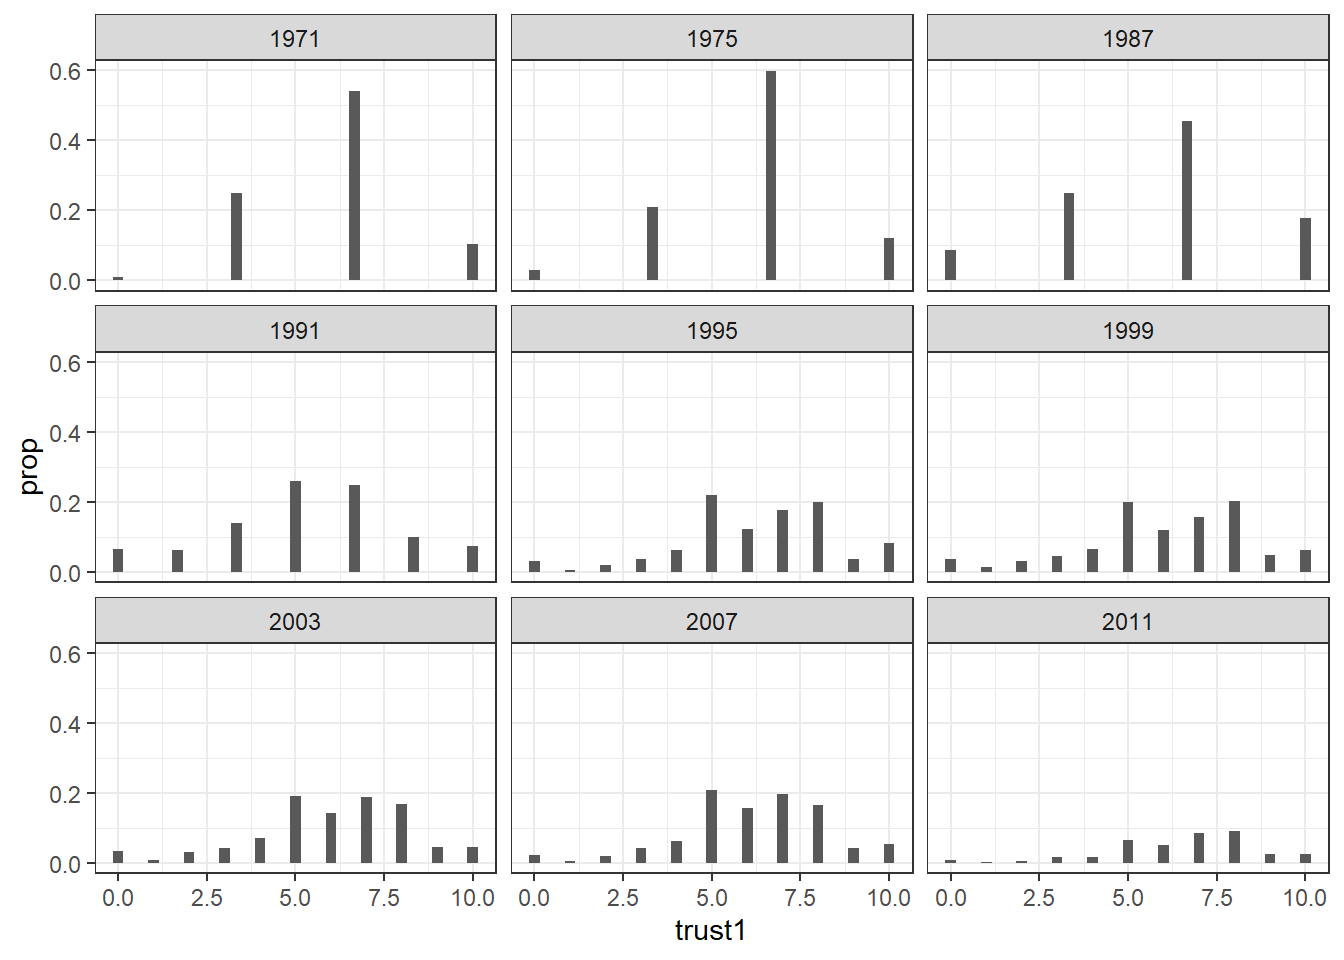
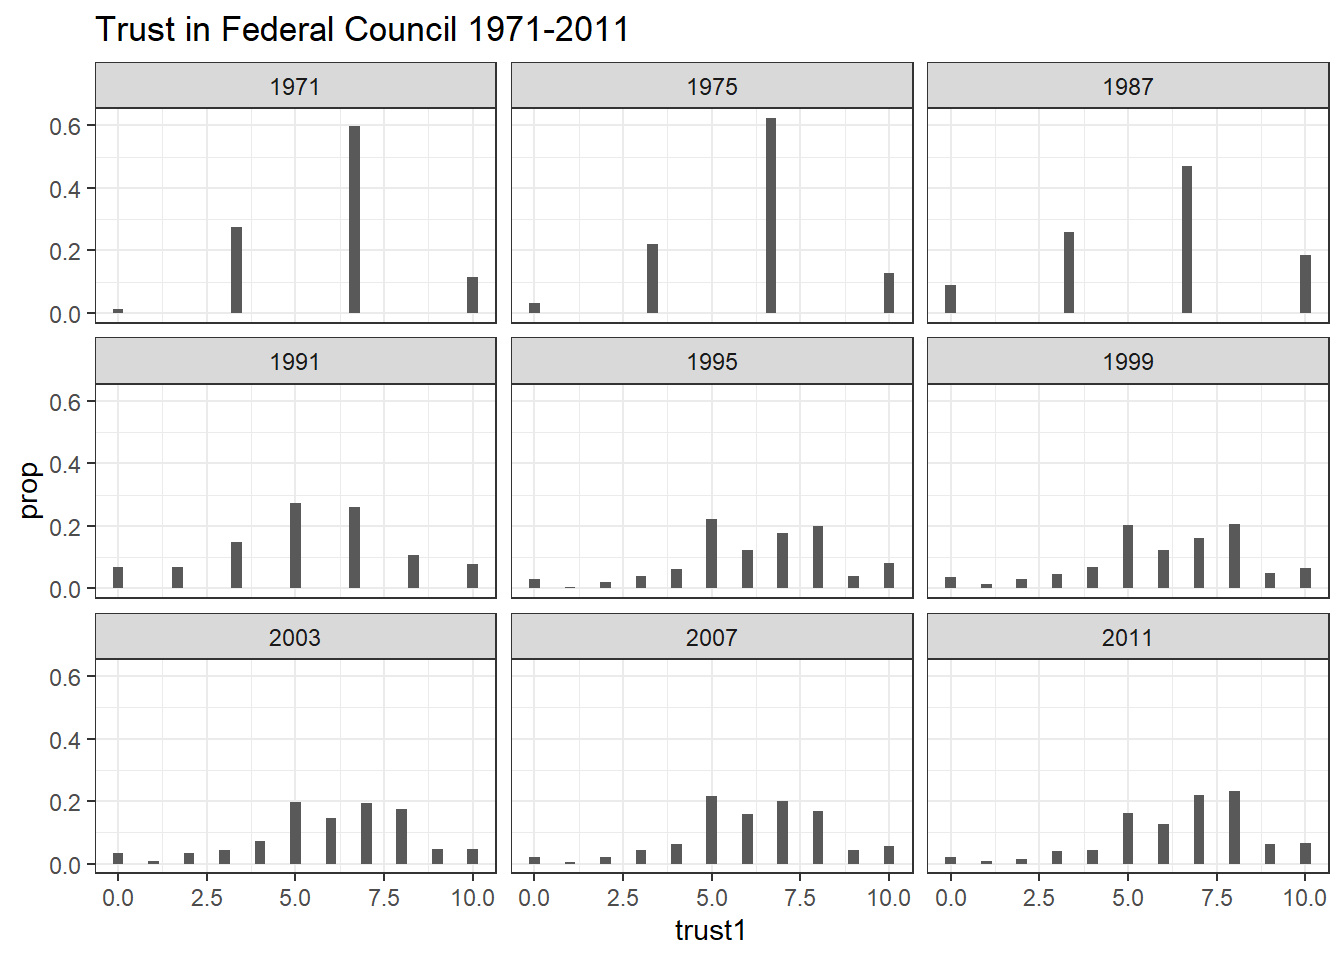
...

diff --git a/docs/posts/trust institution switzerland/trust institution switzerland.html b/docs/posts/trust institution switzerland/trust institution switzerland.html
@@ -216,7 +216,7 @@ div.csl-indent {
 
 
 
-<p>Switzerland is often considered as a successful and well-performing economy. The country typically ranks among the first in a wide variety of living standard measures such as the human development index, GDP per capita and so on. As a result, the analysis trust in institutions in Switzerland is rather poorly studied, because it is expected that the good performances of the country implies political stability and that trust in institutions can be taken as granted. If one tries therefore to assess the evolution of trust in institutions, one thus expects to find a great stability. Nonetheless, one period in recent Swiss history represents an exception: the crisis of the 1990s. This period was marked by recession and was accompanied by a decline in swiss people’s trust in institutions <span class="citation" data-cites="brunner_crise_1997">(<a href="#ref-brunner_crise_1997" role="doc-biblioref">Brunner and Sgier 1997</a>)</span>. For my research, I am interested in social conflict, political cleavages and institutional change. The Neorealism approach developped by Amable and Palombarini <span class="citation" data-cites="amable2005 amable_neorealist_2008">(<a href="#ref-amable2005" role="doc-biblioref">2005</a>; <a href="#ref-amable_neorealist_2008" role="doc-biblioref">2008</a>)</span>, which is dedicated to the analysis of those topics, offers insightful concepts and methods that I will mobilize here in assessing the evolution of Switzerland’s trust in its institutions in the last decades. Until now, Neorealism has been first and foremost mobilized by its founders to analyse France and Italy <span class="citation" data-cites="amable_bloc_2014 amable_illusion_2018">(<a href="#ref-amable_bloc_2014" role="doc-biblioref">Bruno Amable and Palombarini 2014</a>, <a href="#ref-amable_illusion_2018" role="doc-biblioref">2018</a>)</span>. In their work, they typically start with the fact that Italy and France went under periods of deep political crises. Leaving their conceptual definitions of crisis (which are however really interesting) aside and focusing only on how they identify it empirically, they typically expose data on trust in politicians, institutions, government and in political turnover. However, it is rather straightforward to anyone interested in politics and modern history that Italy and France underwent political crises, and data on these facts only serve to describe a well-known fact. The situation is totally different for Switzerland, which is why it is interesting to study this country in a neorealist approach.</p>
+<p>Switzerland is often considered as a successful and well-performing economy. The country typically ranks among the first in a wide variety of living standard measures such as the human development index, GDP per capita and so on. As a result, the trust in institutions in Switzerland is rather poorly studied, because it is expected that the good performances of the country implies political stability and that trust in institutions can be taken as granted. If one tries therefore to assess the evolution of trust in institutions, one thus expects to find a great stability. Nonetheless, one period in recent Swiss history represents an exception: the crisis of the 1990s. This period was marked by recession and was accompanied by a decline in swiss people’s trust in institutions <span class="citation" data-cites="brunner_crise_1997">(<a href="#ref-brunner_crise_1997" role="doc-biblioref">Brunner and Sgier 1997</a>)</span>. For my research, I am interested in social conflict, political cleavages and institutional change. The Neorealism approach developped by Amable and Palombarini <span class="citation" data-cites="amable2005 amable_neorealist_2008">(<a href="#ref-amable2005" role="doc-biblioref">2005</a>; <a href="#ref-amable_neorealist_2008" role="doc-biblioref">2008</a>)</span>, which is dedicated to the analysis of those topics, offers insightful concepts and methods that I will mobilize here in assessing the evolution of Switzerland’s trust in its institutions in the last decades. Until now, Neorealism has been first and foremost mobilized by its founders to analyse France and Italy <span class="citation" data-cites="amable_bloc_2014 amable_illusion_2018">(<a href="#ref-amable_bloc_2014" role="doc-biblioref">Bruno Amable and Palombarini 2014</a>, <a href="#ref-amable_illusion_2018" role="doc-biblioref">2018</a>)</span>. In their work, they typically start with the fact that Italy and France went under periods of deep political crises. Leaving their conceptual definitions of crisis (which are however really interesting) aside and focusing only on how they identify it empirically, they typically expose data on trust in politicians, institutions, government and in political turnover. However, it is rather straightforward to anyone interested in politics and modern history that Italy and France underwent political crises, and data on these facts only serve to describe a well-known fact. The situation is totally different for Switzerland, which is why it is interesting to study this country in a neorealist approach.</p>
 <p>This post will hence be an attempt to periodize, analyse and assess the evolution of trust in institutions in Switzerland. The goal here is, by using post-electoral survey, to identify the trends in trust in institutions and assess whether Switzerland can be characterized as a politically stable country, as opposed to France and Italy.</p>
 <p>To do so, I will analyse post-electoral survey data. The Swiss Election Studies (SELECTS) offers a cumulative dataset which is of particular interest.</p>
 <div class="cell">
@@ -277,18 +277,32 @@ div.csl-indent {
 <div class="sourceCode cell-code" id="cb1"><pre class="sourceCode r code-with-copy"><code class="sourceCode r"><span id="cb1-1"><a href="#cb1-1" aria-hidden="true" tabindex="-1"></a>ses <span class="sc">%&gt;%</span> </span>
 <span id="cb1-2"><a href="#cb1-2" aria-hidden="true" tabindex="-1"></a>  <span class="fu">group_by</span>(year) <span class="sc">%&gt;%</span> </span>
 <span id="cb1-3"><a href="#cb1-3" aria-hidden="true" tabindex="-1"></a>  <span class="fu">count</span>(trust1) <span class="sc">%&gt;%</span> </span>
-<span id="cb1-4"><a href="#cb1-4" aria-hidden="true" tabindex="-1"></a>  <span class="fu">mutate</span>(<span class="at">prop =</span> n<span class="sc">/</span><span class="fu">sum</span>(n)) <span class="sc">%&gt;%</span> </span>
-<span id="cb1-5"><a href="#cb1-5" aria-hidden="true" tabindex="-1"></a>  <span class="fu">ungroup</span>() <span class="sc">%&gt;%</span> </span>
-<span id="cb1-6"><a href="#cb1-6" aria-hidden="true" tabindex="-1"></a>  <span class="fu">filter</span>(<span class="sc">!</span>year <span class="sc">%in%</span> <span class="fu">c</span>(<span class="dv">1979</span>, <span class="dv">2015</span>, <span class="dv">2019</span>)) <span class="sc">%&gt;%</span> </span>
-<span id="cb1-7"><a href="#cb1-7" aria-hidden="true" tabindex="-1"></a>  <span class="fu">ggplot</span>()<span class="sc">+</span></span>
-<span id="cb1-8"><a href="#cb1-8" aria-hidden="true" tabindex="-1"></a>  <span class="fu">aes</span>(<span class="at">x =</span> trust1, <span class="at">y =</span> prop)<span class="sc">+</span></span>
-<span id="cb1-9"><a href="#cb1-9" aria-hidden="true" tabindex="-1"></a>  <span class="fu">geom_col</span>()<span class="sc">+</span></span>
-<span id="cb1-10"><a href="#cb1-10" aria-hidden="true" tabindex="-1"></a>  <span class="fu">facet_wrap</span>(<span class="sc">~</span>year)</span></code><button title="Copy to Clipboard" class="code-copy-button"><i class="bi"></i></button></pre></div>
-<div class="cell-output cell-output-stderr">
-<pre><code>Warning: Removed 9 rows containing missing values (`position_stack()`).</code></pre>
-</div>
+<span id="cb1-4"><a href="#cb1-4" aria-hidden="true" tabindex="-1"></a>  <span class="fu">drop_na</span>() <span class="sc">%&gt;%</span> </span>
+<span id="cb1-5"><a href="#cb1-5" aria-hidden="true" tabindex="-1"></a>  <span class="fu">mutate</span>(<span class="at">prop =</span> n<span class="sc">/</span><span class="fu">sum</span>(n)) <span class="sc">%&gt;%</span> </span>
+<span id="cb1-6"><a href="#cb1-6" aria-hidden="true" tabindex="-1"></a>  <span class="fu">ungroup</span>() <span class="sc">%&gt;%</span> </span>
+<span id="cb1-7"><a href="#cb1-7" aria-hidden="true" tabindex="-1"></a>  <span class="fu">filter</span>(<span class="sc">!</span>year <span class="sc">%in%</span> <span class="fu">c</span>(<span class="dv">1979</span>, <span class="dv">2015</span>, <span class="dv">2019</span>)) <span class="sc">%&gt;%</span> </span>
+<span id="cb1-8"><a href="#cb1-8" aria-hidden="true" tabindex="-1"></a>  <span class="fu">ggplot</span>()<span class="sc">+</span></span>
+<span id="cb1-9"><a href="#cb1-9" aria-hidden="true" tabindex="-1"></a>  <span class="fu">aes</span>(<span class="at">x =</span> trust1, <span class="at">y =</span> prop)<span class="sc">+</span></span>
+<span id="cb1-10"><a href="#cb1-10" aria-hidden="true" tabindex="-1"></a>  <span class="fu">geom_col</span>()<span class="sc">+</span></span>
+<span id="cb1-11"><a href="#cb1-11" aria-hidden="true" tabindex="-1"></a>  <span class="fu">labs</span>(<span class="at">title =</span> <span class="st">"Trust in Federal Council 1971-2011"</span>)<span class="sc">+</span></span>
+<span id="cb1-12"><a href="#cb1-12" aria-hidden="true" tabindex="-1"></a>  <span class="fu">facet_wrap</span>(<span class="sc">~</span>year)</span></code><button title="Copy to Clipboard" class="code-copy-button"><i class="bi"></i></button></pre></div>
 <div class="cell-output-display">
 <p><img src="trust-institution-switzerland_files/figure-html/unnamed-chunk-2-1.png" class="img-fluid" width="672"></p>
+</div>
+</div>
+<p>Here is a basic visualisation to show the distribution of the variable for each year. It is rather difficult to conclude anything with this graph: the scale of the variable goes from 4 categories for 1971-1975-1987 to 10 and there is no obvious trend from 1991 to 2011.</p>
+<p>Fortunately, there are other ways to work with ordinal variables, one way would be to compute the median value for each year.</p>
+<div class="cell">
+<div class="sourceCode cell-code" id="cb2"><pre class="sourceCode r code-with-copy"><code class="sourceCode r"><span id="cb2-1"><a href="#cb2-1" aria-hidden="true" tabindex="-1"></a>ses <span class="sc">%&gt;%</span> </span>
+<span id="cb2-2"><a href="#cb2-2" aria-hidden="true" tabindex="-1"></a>  <span class="fu">group_by</span>(year) <span class="sc">%&gt;%</span> </span>
+<span id="cb2-3"><a href="#cb2-3" aria-hidden="true" tabindex="-1"></a>  <span class="fu">summarise</span>(<span class="at">median =</span> <span class="fu">median</span>(<span class="at">na.rm =</span> <span class="cn">TRUE</span>, trust1)) <span class="sc">%&gt;%</span> </span>
+<span id="cb2-4"><a href="#cb2-4" aria-hidden="true" tabindex="-1"></a>  <span class="fu">ungroup</span>() <span class="sc">%&gt;%</span> </span>
+<span id="cb2-5"><a href="#cb2-5" aria-hidden="true" tabindex="-1"></a>  <span class="fu">drop_na</span>() <span class="sc">%&gt;%</span> </span>
+<span id="cb2-6"><a href="#cb2-6" aria-hidden="true" tabindex="-1"></a>  <span class="fu">ggplot</span>()<span class="sc">+</span></span>
+<span id="cb2-7"><a href="#cb2-7" aria-hidden="true" tabindex="-1"></a>  <span class="fu">aes</span>(<span class="at">x =</span> year, <span class="at">y =</span> median)<span class="sc">+</span></span>
+<span id="cb2-8"><a href="#cb2-8" aria-hidden="true" tabindex="-1"></a>  <span class="fu">geom_line</span>()</span></code><button title="Copy to Clipboard" class="code-copy-button"><i class="bi"></i></button></pre></div>
+<div class="cell-output-display">
+<p><img src="trust-institution-switzerland_files/figure-html/unnamed-chunk-3-1.png" class="img-fluid" width="672"></p>
 </div>
 </div>
 

diff --git a/docs/index.html b/docs/index.html
@@ -279,7 +279,7 @@ To build their database on World political cleavages and inequality, Piketty and
 <a href="./posts/Techinal notes of political cleavages and inequality/technical note piketty 2021.html"> </a>
 </div>
 </div>
-<div class="quarto-post image-right" data-index="5" data-listing-file-modified-sort="1685747913235" data-listing-reading-time-sort="3.29">
+<div class="quarto-post image-right" data-index="5" data-listing-file-modified-sort="1685786270527" data-listing-reading-time-sort="3.88">
 <div class="thumbnail">
 <a href="./posts/trust institution switzerland/trust institution switzerland.html">
 <div class="thumbnail-image">
